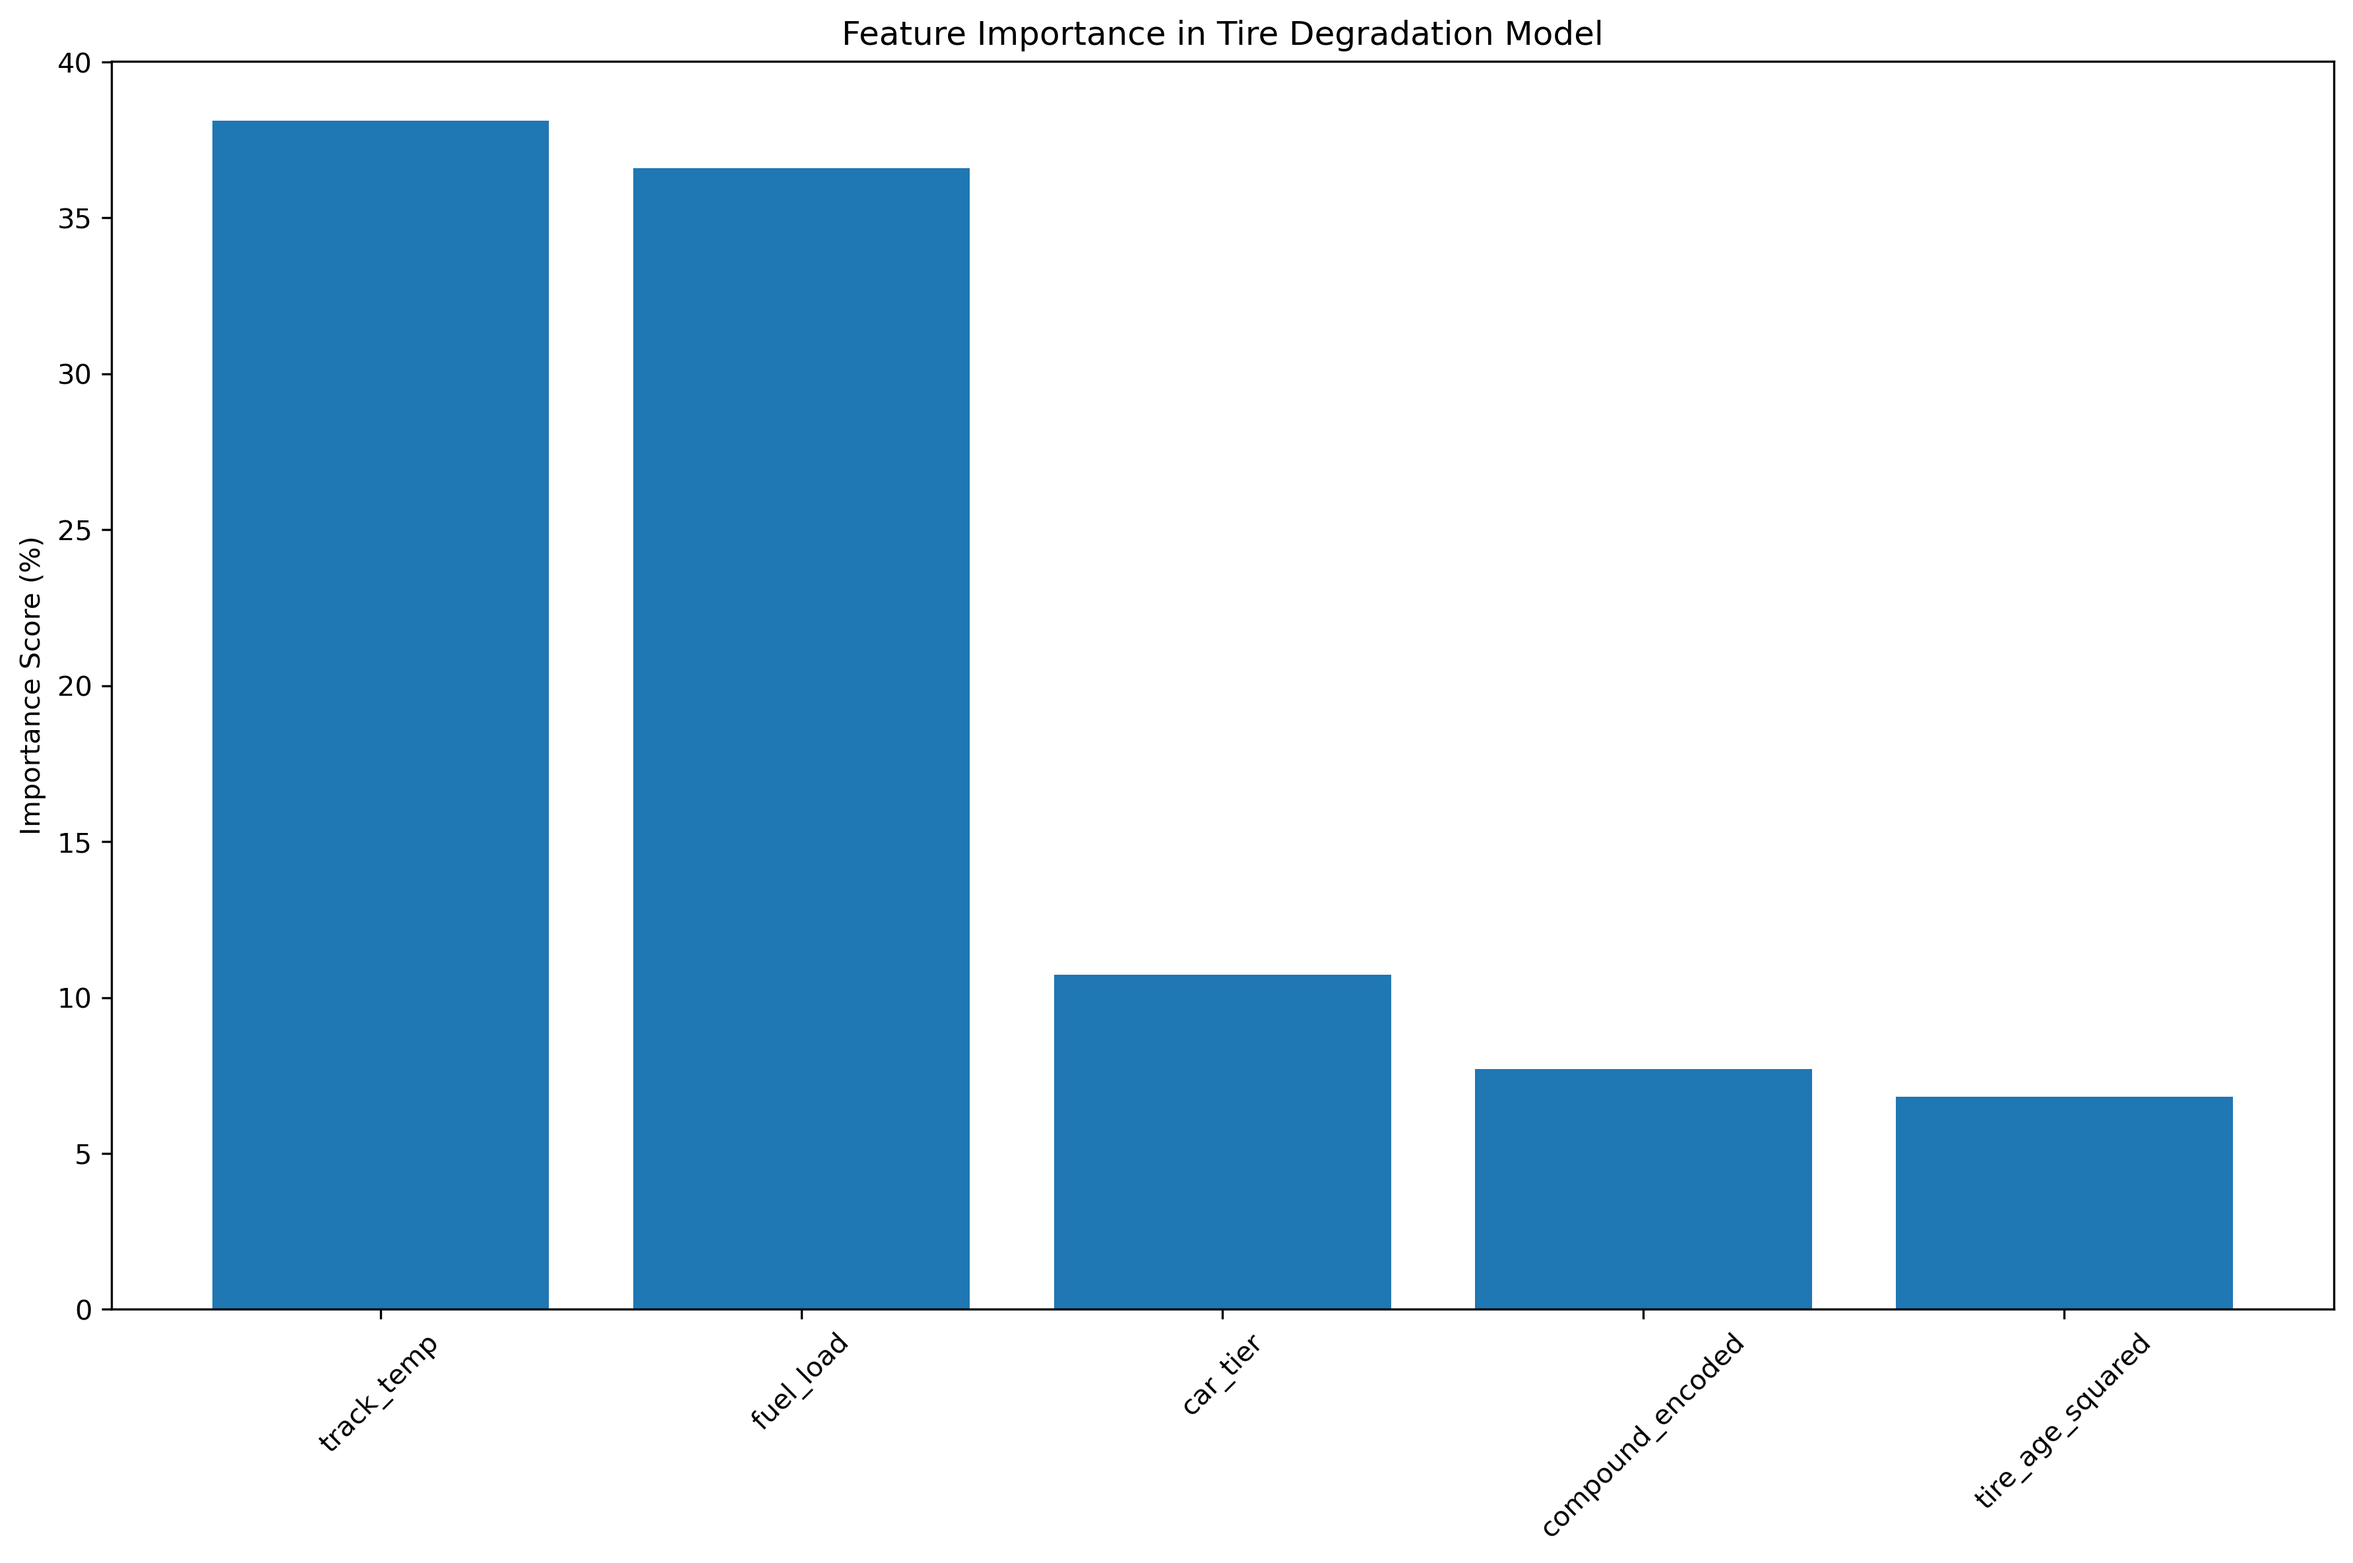
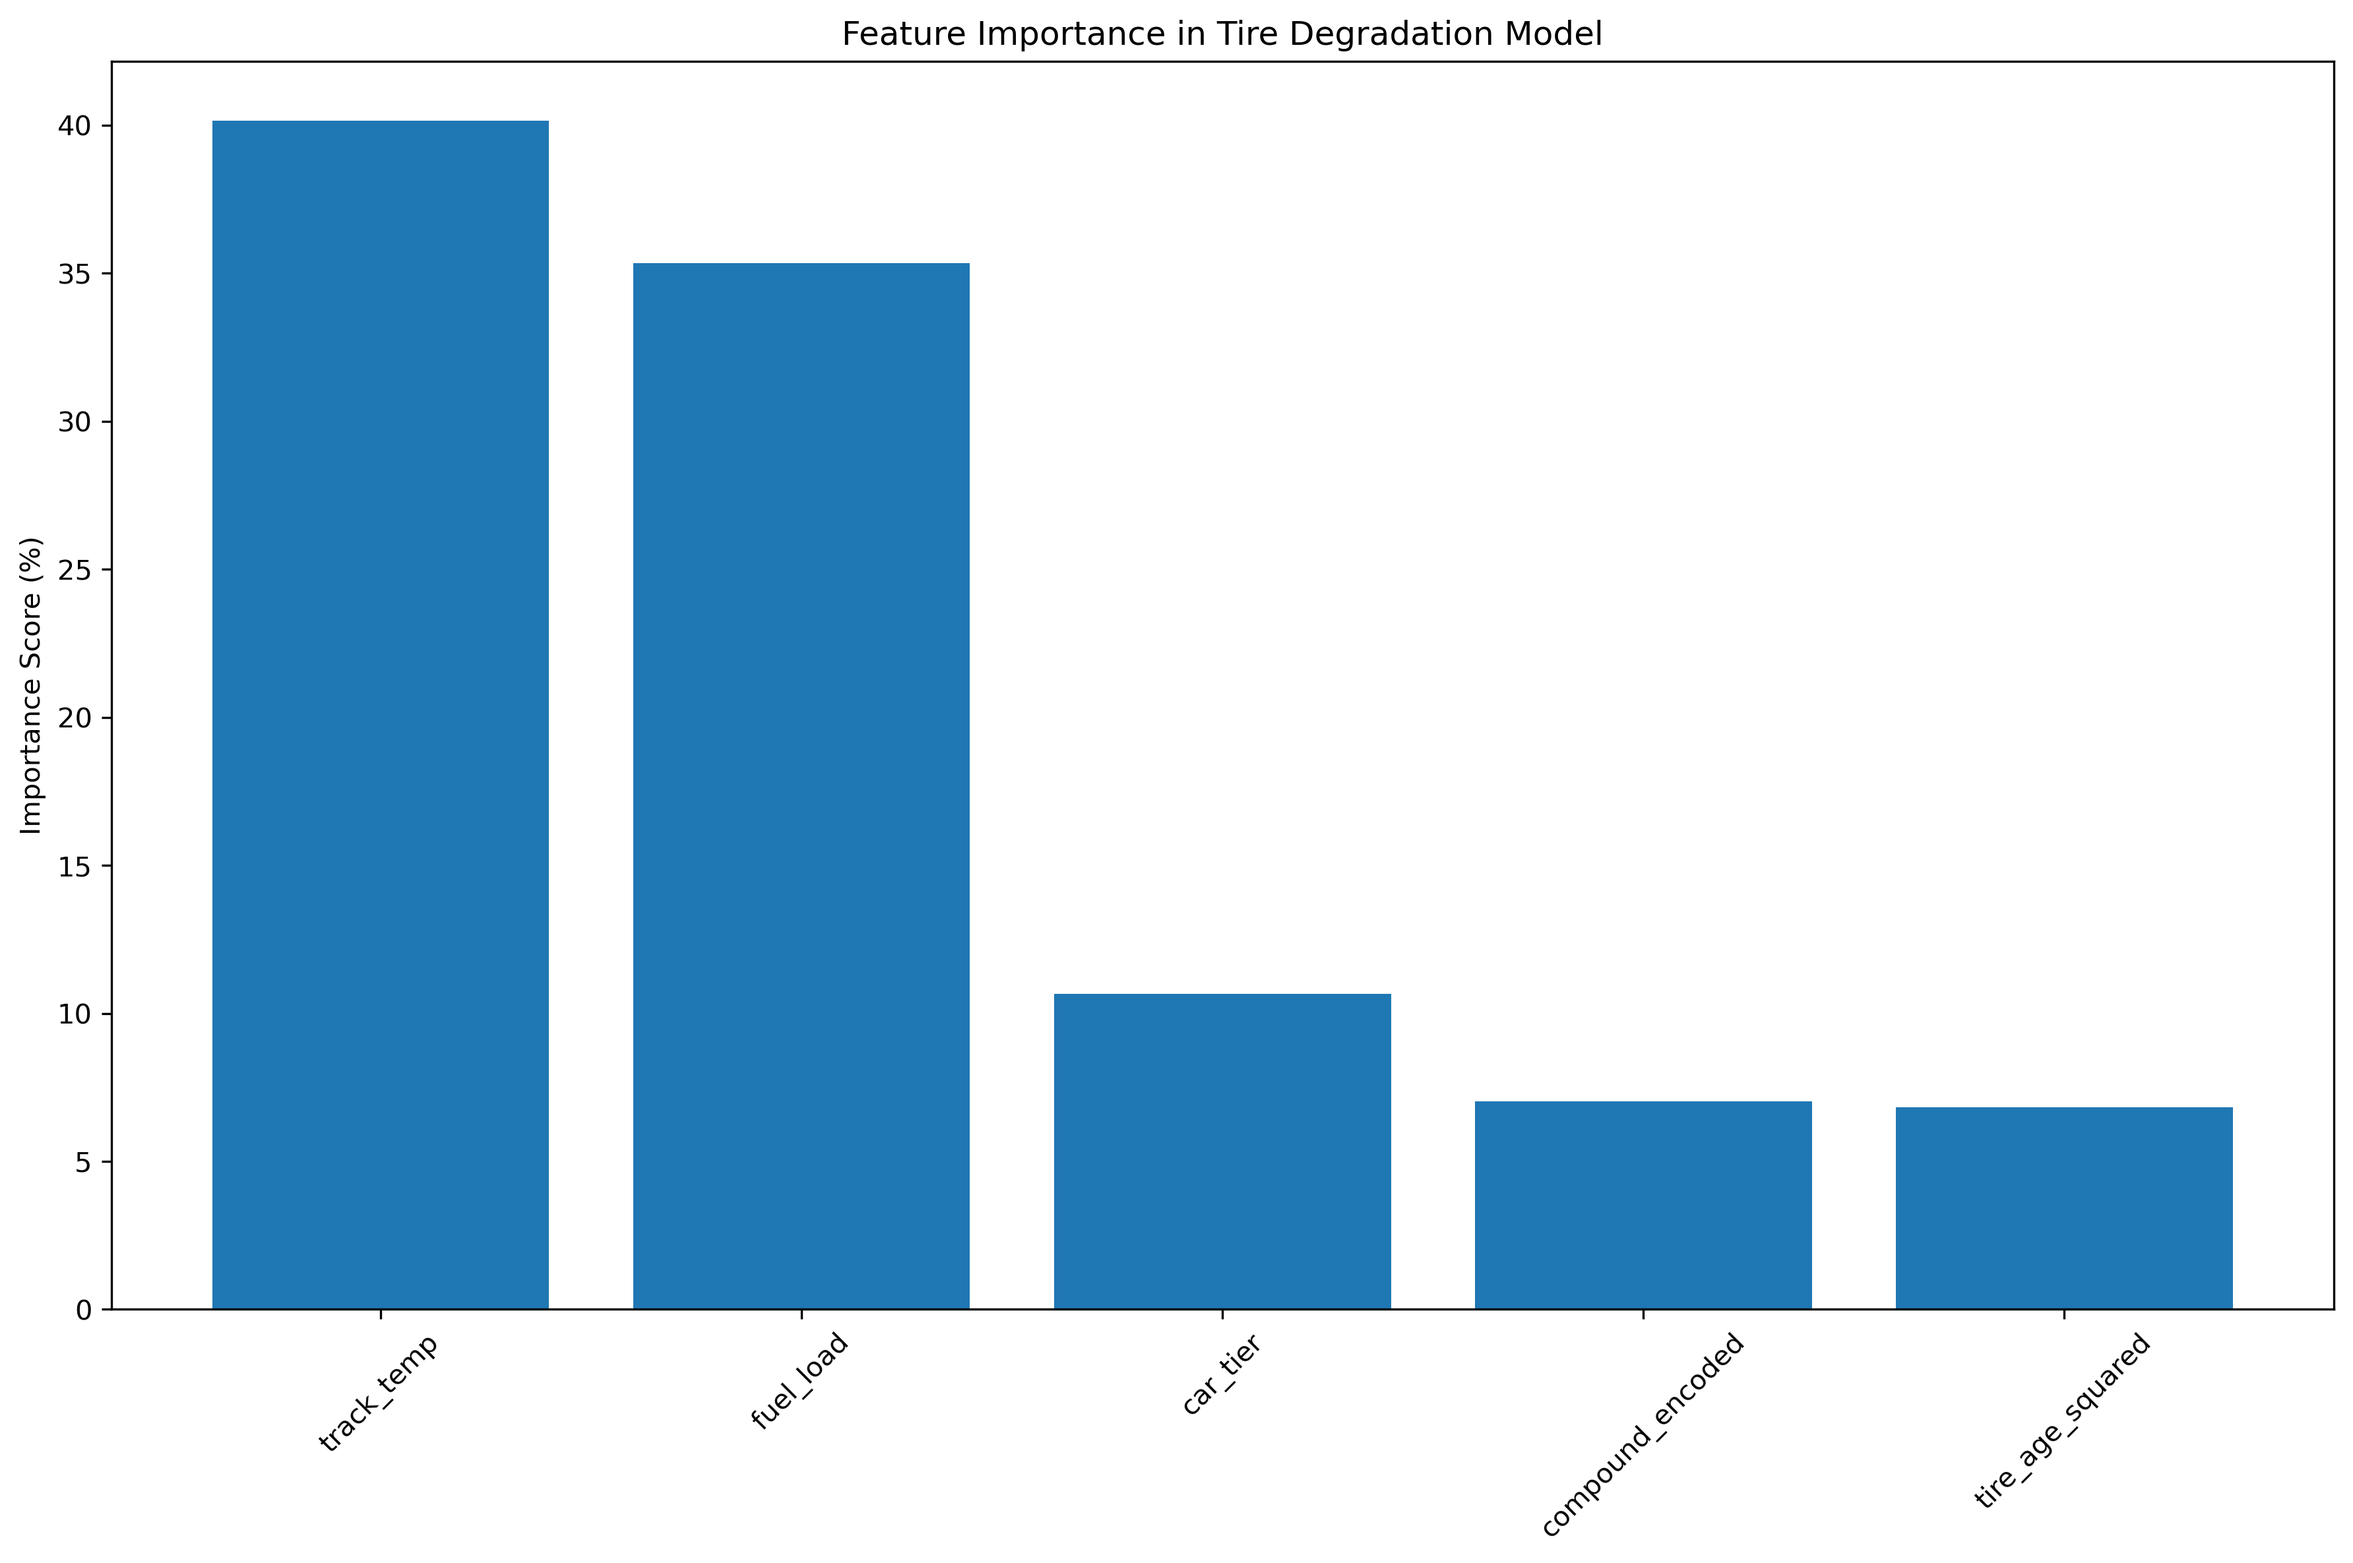
make edits to readme, fix multi_circuit_analysis, move preprocessing to data_collection

diff --git a/multi_circuit_analysis.py b/multi_circuit_analysis.py
@@ -9,7 +9,7 @@ import warnings
 warnings.filterwarnings('ignore')
 
 # Import our modules
-from model import F1TireDegradationModel
+from tire_model import F1TireModel
 from data_collection import collect_data, preprocess_data
 from plotting import (plot_feature_importance, plot_race_stint_simulation, 
                      plot_degradation_curves, plot_fuel_load_effect)
@@ -31,7 +31,7 @@ def analyze_circuit(circuit, years):
     print(f"{'='*60}")
     
     # Initialize model
-    model = F1TireDegradationModel()
+    model = F1TireModel()
     
     # Collect data
     print("Starting data collection...")
@@ -43,7 +43,7 @@ def analyze_circuit(circuit, years):
     if len(df) > 0:
         # Preprocess data
         print("\nPreprocessing data...")
-        X, y, processed_df = preprocess_data(df, model.compound_encoder)
+        X, y, processed_df = preprocess_data(df)
         
         # Calculate mid-range temperature from actual data
         temp_min = processed_df['track_temp'].min()
@@ -58,12 +58,12 @@ def analyze_circuit(circuit, years):
         # Generate all plots (automatically saved)
         print("Generating and saving plots...")
         plot_feature_importance(model.model, model.feature_names, circuit_name=circuit)
-        plot_degradation_curves(model.model, model.compound_encoder, circuit_name=circuit, 
-                               track_temp=mid_temp, fuel_load=50)
-        plot_fuel_load_effect(model.model, model.compound_encoder, circuit_name=circuit,
-                             track_temp=mid_temp, car_tier=1)
-        plot_race_stint_simulation(model.model, model.compound_encoder, circuit, 
-                                 track_temp=mid_temp, car_tier=1, stint_length=25)
+        plot_degradation_curves(model, model.compound_encoder, circuit_name=circuit, 
+                               track_temp=mid_temp)
+        plot_fuel_load_effect(model, model.compound_encoder, circuit_name=circuit,
+                             track_temp=mid_temp)
+        plot_race_stint_simulation(model, model.compound_encoder, circuit, 
+                                 track_temp=mid_temp)
         
         print(f"✅ Analysis complete for {circuit}!")
         return True
@@ -119,7 +119,6 @@ def main():
             print(f"   - {circuit}")
     
     print(f"\nAll plots saved to individual circuit folders in the 'plots/' directory!")
-    print("You can now compare tire degradation patterns across different tracks.")
 
 if __name__ == "__main__":
     main()

diff --git a/data_collection.py b/data_collection.py
@@ -248,27 +248,28 @@ def collect_data(years, circuit_name="São Paulo"):
         
     return df
 
-def preprocess_data(df, compound_encoder):
+def preprocess_data(df):
     """
-    Preprocess the data for training
+    Basic preprocessing for the model
     """
-    print(f"Data before outlier removal: {len(df)} laps")
+    print(f"Data before preprocessing: {len(df)} laps")
     
-    # Remove statistical outliers (2.5 standard deviations for cleaner data)
-    df = df.groupby(['compound', 'tire_age']).apply(
-        lambda x: x[np.abs(x['lap_time'] - x['lap_time'].mean()) <= 2.5 * x['lap_time'].std()]
-    ).reset_index(drop=True)
+    # Remove basic outliers (very conservative)
+    def remove_outliers(group):
+        mean_time = group['lap_time'].mean()
+        std_time = group['lap_time'].std()
+        # Keep data within 3 standard deviations (very conservative)
+        mask = np.abs(group['lap_time'] - mean_time) <= 3 * std_time
+        return group[mask]
     
-    print(f"Data after statistical outlier removal: {len(df)} laps")
+    # Group by compound and tire age for outlier removal
+    df = df.groupby(['compound', 'tire_age']).apply(remove_outliers).reset_index(drop=True)
     
-    # Encode compound as categorical
-    df['compound_encoded'] = compound_encoder.fit_transform(df['compound'])
+    print(f"Data after outlier removal: {len(df)} laps")
+    print()  # Add spacing
     
-    # Create feature matrix with essential features only
-    feature_cols = [
-        'compound_encoded', 'tire_age', 'track_temp', 'fuel_load', 'car_tier'
-    ]
-    
+    # Create feature matrix
+    feature_cols = ['track_temp', 'fuel_load', 'car_tier', 'compound', 'tire_age']
     X = df[feature_cols].copy()
     y = df['lap_time'].copy()
     

diff --git a/main.py b/main.py
@@ -8,7 +8,7 @@ warnings.filterwarnings('ignore')
 
 # Import modules
 from tire_model import F1TireModel
-from data_collection import collect_data
+from data_collection import collect_data, preprocess_data
 from plotting import plot_feature_importance, plot_degradation_curves, plot_fuel_load_effect, plot_race_stint_simulation
 
 # Create cache directory
@@ -19,39 +19,12 @@ if not os.path.exists(cache_dir):
 # Enable Fast-F1 cache
 fastf1.Cache.enable_cache(cache_dir)
 
-def preprocess_data(df):
-    """
-    Basic preprocessing for the model
-    """
-    print(f"Data before preprocessing: {len(df)} laps")
-    
-    # Remove basic outliers (very conservative)
-    def remove_outliers(group):
-        mean_time = group['lap_time'].mean()
-        std_time = group['lap_time'].std()
-        # Keep data within 3 standard deviations (very conservative)
-        mask = np.abs(group['lap_time'] - mean_time) <= 3 * std_time
-        return group[mask]
-    
-    # Group by compound and tire age for outlier removal
-    df = df.groupby(['compound', 'tire_age']).apply(remove_outliers).reset_index(drop=True)
-    
-    print(f"Data after outlier removal: {len(df)} laps")
-    print()  # Add spacing
-    
-    # Create feature matrix
-    feature_cols = ['track_temp', 'fuel_load', 'car_tier', 'compound', 'tire_age']
-    X = df[feature_cols].copy()
-    y = df['lap_time'].copy()
-    
-    return X, y, df
-
 def main():
     # Initialize model
     model = F1TireModel()
     
     # Data collection settings
-    circuit = "Spa"
+    circuit = "Silverstone"
     years = [2022, 2023]
     
     # Collect data

diff --git a/readme.md b/readme.md
@@ -5,6 +5,7 @@ A machine learning model that predicts F1 lap times based on tire degradation, f
 ## Key Features
 
 - **Real F1 Data**: Uses FastF1 library to access official Formula 1 timing data
+- **Synthetic Cliff Effects**: Intelligently adds synthetic data only where real data is sparse to ensure realistic tire degradation patterns
 - **Circuit-Specific Modeling**: Accounts for unique fuel consumption rates across 25+ F1 circuits
 - **Car Performance Tiers**: Models performance differences between top, midfield, and bottom teams
 - **Realistic Race Simulation**: Shows tire degradation vs fuel burn-off effects during race stints
@@ -16,7 +17,7 @@ A machine learning model that predicts F1 lap times based on tire degradation, f
 | File | Purpose |
 |------|---------|
 | `main.py` | Main execution script - configure circuit and years here |
-| `model.py` | XGBoost model implementation with training and prediction methods |
+| `model.py` | XGBoost model with 5-feature architecture and synthetic data generation |
 | `data_collection.py` | F1 data gathering, circuit info, and preprocessing functions |
 | `plotting.py` | All visualization functions with auto-save capabilities |
 | `multi_circuit_analysis.py` | Batch analysis script for multiple circuits |
@@ -54,10 +55,10 @@ python multi_circuit_analysis.py  # Analyze 5 circuits automatically
 ## Results: Silverstone Analysis
 
 ### Model Performance
-- **Training MAE**: 0.386 seconds
-- **Test MAE**: 0.508 seconds  
-- **Training R²**: 0.973
-- **Test R²**: 0.944
+- **Training MAE**: 0.322 seconds
+- **Test MAE**: 0.498 seconds  
+- **Training R²**: 0.969
+- **Test R²**: 0.920
 
 The model achieves excellent predictive accuracy with sub-second error rates, indicating strong ability to capture tire degradation patterns.
 
@@ -66,7 +67,7 @@ The model achieves excellent predictive accuracy with sub-second error rates, in
 
 **Key Insights:**
 - Track temperature and fuel load are the dominant factors affecting lap times
-- Car tier accounts for ~9% of performance variation between teams
+- Car tier accounts for ~11% of performance variation between teams
 - Tire compound and age have smaller but significant impacts
 
 ### Fuel Load Effects
@@ -89,8 +90,14 @@ The model achieves excellent predictive accuracy with sub-second error rates, in
 ### Tire Degradation by Car Tier
 ![Tire Degradation Curves](plots/Silverstone/tire_degradation_curves.png)
 
+**Multi-Dimensional Analysis:**
+- **Rows**: 80%, 50%, 20% fuel loads
+- **Columns**: Tier 1, Tier 2, Tier 3 teams
+- **Shading**: Highlights fastest compound at each tire age
+- **Cliff Effects**: Synthetic data ensures realistic degradation beyond lap 25
+
 **Team Performance Differences:**
-- **Tier 1 teams** (Red Bull, Ferrari, Mercedes): ~1.5s faster baseline performance
+- **Tier 1 teams**: Red Bull, Ferrari, Mercedes: Contenders with faster baseline performance
 - **Tier 2 teams** (McLaren, Alpine, etc.): Midfield performance reference
 - **Tier 3 teams** (Williams, Haas, etc.): Show more pronounced tire degradation
 
@@ -104,7 +111,7 @@ The model achieves excellent predictive accuracy with sub-second error rates, in
 
 ### Preprocessing Pipeline
 1. **Data Filtering**: Remove outlier laps (pit stops, safety cars, invalid times)
-2. **Statistical Outlier Removal**: Filter laps beyond 2.5 standard deviations
+2. **Synthetic Data Generation**: Add cliff effects where real data < 5 samples (long stints)
 3. **Fuel Load Calculation**: Circuit-specific fuel burn rates and race progression modeling
 4. **Car Tier Assignment**: Based on constructor championship standings
 5. **Feature Engineering**: Encode categorical variables and normalize ranges
@@ -112,9 +119,10 @@ The model achieves excellent predictive accuracy with sub-second error rates, in
 ## Model Architecture
 
 - **Algorithm**: XGBoost with monotonic constraints
-- **Features**: Tire compound, tire age, track temperature, fuel load, car tier
+- **Features**: Tire compound, tire age², track temperature, fuel load, car tier
 - **Constraints**: Ensures tire age and fuel load correctly correlate with lap times
-- **Validation**: Train/test split with early stopping to prevent overfitting
+- **Synthetic Integration**: Real and synthetic data mixed in both training and test sets
+- **Validation**: Train/test split with 80/20 random shuffle, early stopping
 
 ## Author
 
@@ -122,4 +130,4 @@ The model achieves excellent predictive accuracy with sub-second error rates, in
 
 ---
 
-*Machine learning model for F1 tire degradation and lap time prediction*
+*Machine learning model for F1 tire degradation and lap time prediction.*
